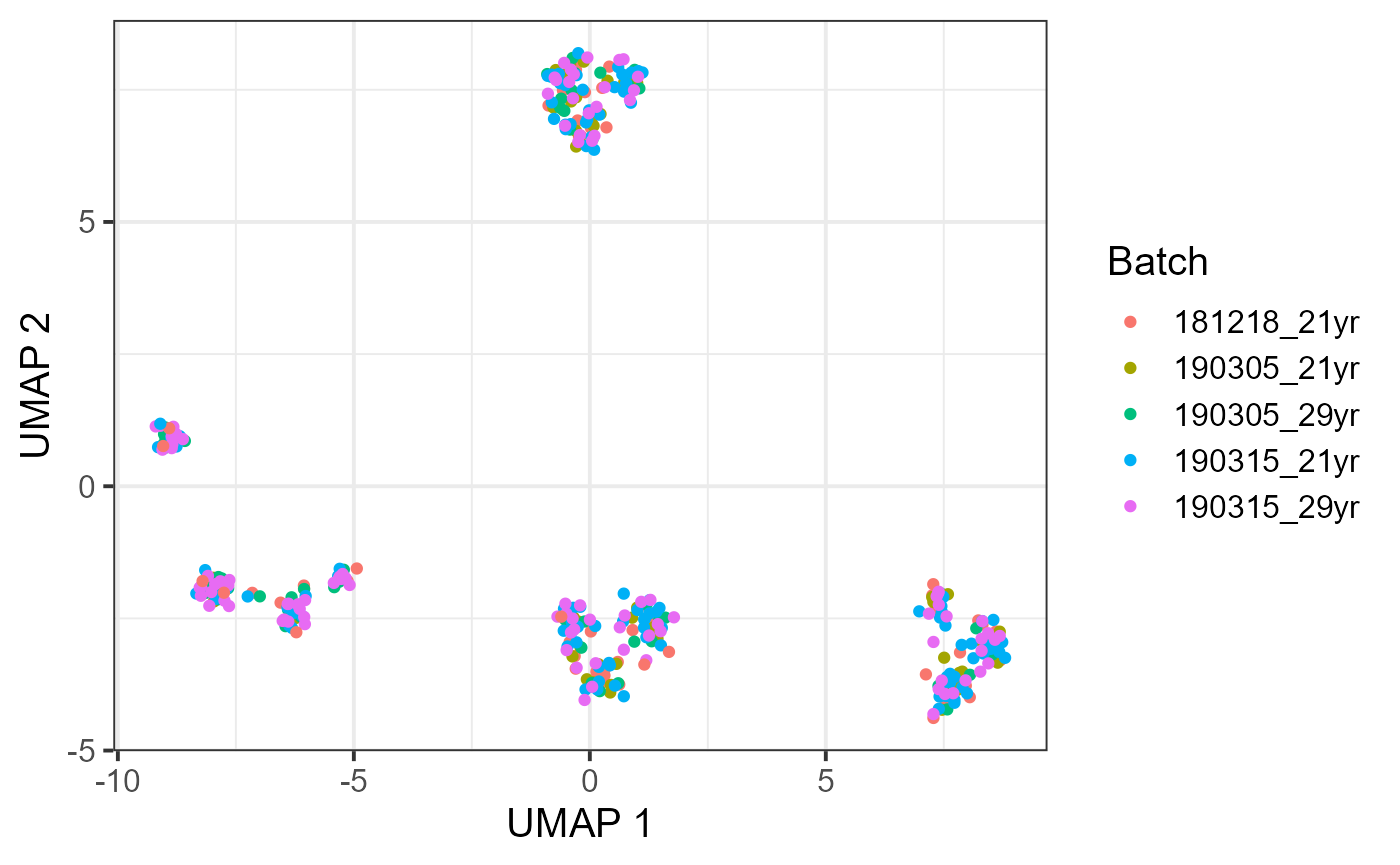
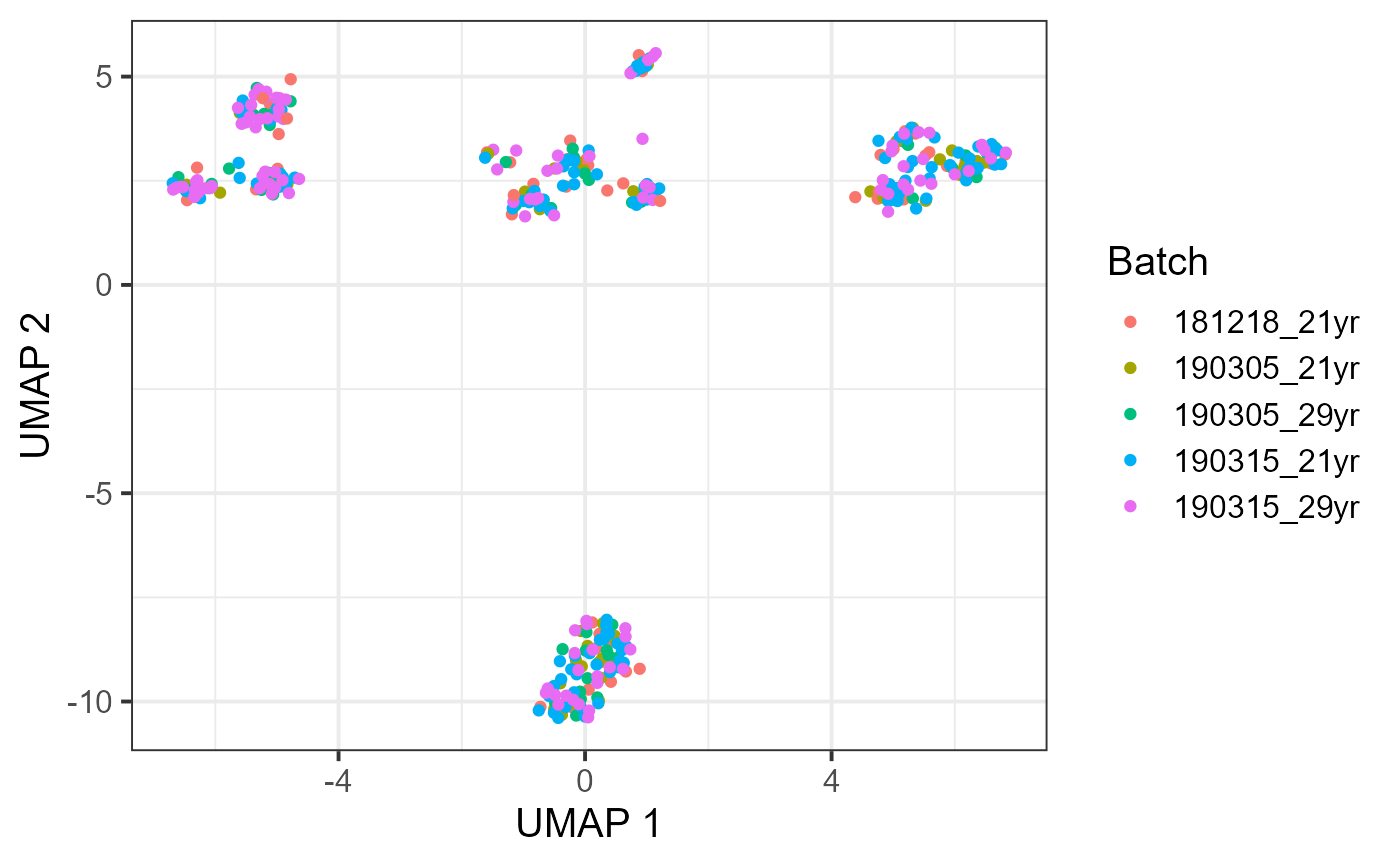
Add files via upload

diff --git a/docs/articles/BandNorm-tutorial.html b/docs/articles/BandNorm-tutorial.html
@@ -117,10 +117,22 @@
 <a href="#format-of-input" class="anchor"></a>Format of input</h2>
 <p>There are two possible ways to input the data:</p>
 <ol style="list-style-type: decimal">
-<li><p>A path containing all cells in the form of [chr1, binA, chr2, binB, count],</p></li>
-<li><p>An R data.frame in the form of [chr1, binA, binB, count, diag, cell_name]. The column names should be c(“chrom”, “binA”, “binB”, “count”, “diag”, “cell”)</p></li>
+<li>A path containing all cells in the form of [chr1, binA, chr2, binB, count], the cell looks like below:</li>
 </ol>
-<div class="sourceCode" id="cb3"><pre class="downlit sourceCode r">
+<pre><code>chr1    0       chr1    1000000 9
+chr1    1000000 chr1    1000000 200
+chr1    0       chr1    2000000 2
+chr1    1000000 chr1    2000000 4
+chr1    2000000 chr1    2000000 220
+chr1    1000000 chr1    3000000 1
+chr1    2000000 chr1    3000000 11
+chr1    3000000 chr1    3000000 197
+chr1    1000000 chr1    4000000 1
+chr1    2000000 chr1    4000000 2</code></pre>
+<ol start="2" style="list-style-type: decimal">
+<li>An R data.frame in the form of [chr1, binA, binB, count, diag, cell_name]. The column names should be c(“chrom”, “binA”, “binB”, “count”, “diag”, “cell”). Below we print the example data.</li>
+</ol>
+<div class="sourceCode" id="cb4"><pre class="downlit sourceCode r">
 <code class="sourceCode R"><span class="kw"><a href="https://rdrr.io/r/base/library.html">library</a></span><span class="op">(</span><span class="va">BandNorm</span><span class="op">)</span>
 <span class="co">#&gt; Loading required package: ggplot2</span>
 <span class="co">#&gt; Warning: package 'ggplot2' was built under R version 4.0.3</span>
@@ -162,7 +174,7 @@
 <span class="co">#&gt; 9   chr1 4e+06 4e+06   112 0e+00 Astro_1</span>
 <span class="co">#&gt; 10  chr1 3e+06 5e+06     1 2e+06 Astro_1</span></code></pre></div>
 <p>For the example dataset, we also have batch information and cell-type information. Note that the cell_name in those external information should be consistent with the hic_df file.</p>
-<div class="sourceCode" id="cb4"><pre class="downlit sourceCode r">
+<div class="sourceCode" id="cb5"><pre class="downlit sourceCode r">
 <code class="sourceCode R"><span class="fu"><a href="https://rdrr.io/r/utils/data.html">data</a></span><span class="op">(</span><span class="va">batch</span><span class="op">)</span>
 <span class="fu"><a href="https://rdrr.io/r/utils/data.html">data</a></span><span class="op">(</span><span class="va">cell_type</span><span class="op">)</span>
 <span class="fu"><a href="https://rdrr.io/r/base/print.html">print</a></span><span class="op">(</span><span class="va">batch</span><span class="op">[</span><span class="fl">1</span><span class="op">:</span><span class="fl">10</span>, <span class="op">]</span><span class="op">)</span>
@@ -193,15 +205,15 @@
 <div id="download-existing-single-cell-hi-c-data" class="section level2">
 <h2 class="hasAnchor">
 <a href="#download-existing-single-cell-hi-c-data" class="anchor"></a>Download existing single-cell Hi-C data</h2>
-<p>You can also use <code>download_schic</code> function to download real data. The available data includes Kim2020, Li2019, Ramani2017, and Lee2019. You can specify one of the cell-types in those cell lines. There are also summary files available for them, and the summary includes batch, cell-type, depth and sparsity information. You can go to <a href="http://pages.stat.wisc.edu/~sshen82/bandnorm/">this website</a> for more information.</p>
-<div class="sourceCode" id="cb5"><pre class="downlit sourceCode r">
+<p>You can also use <code>download_schic</code> function to download real data. The available data includes <a href="https://journals.plos.org/ploscompbiol/article?id=10.1371/journal.pcbi.1008173">Kim2020</a>, <a href="https://www.nature.com/articles/s41592-019-0502-z">Li2019</a>, <a href="https://www.ncbi.nlm.nih.gov/pmc/articles/PMC5330809/">Ramani2017</a>, and <a href="https://www.nature.com/articles/s41592-019-0547-z">Lee2019</a>. You can specify one of the cell-types in those cell lines. There are also summary files available for them, and the summary includes batch, cell-type, depth and sparsity information. You can go to <a href="http://pages.stat.wisc.edu/~sshen82/bandnorm/">this website</a> for more information.</p>
+<div class="sourceCode" id="cb6"><pre class="downlit sourceCode r">
 <code class="sourceCode R"><span class="fu"><a href="../reference/download_schic.html">download_schic</a></span><span class="op">(</span><span class="st">"Li2019"</span>, cell_type <span class="op">=</span> <span class="st">"2i"</span>, cell_path <span class="op">=</span> <span class="fu"><a href="https://rdrr.io/r/base/getwd.html">getwd</a></span><span class="op">(</span><span class="op">)</span>, summary_path <span class="op">=</span> <span class="fu"><a href="https://rdrr.io/r/base/getwd.html">getwd</a></span><span class="op">(</span><span class="op">)</span><span class="op">)</span></code></pre></div>
 </div>
 <div id="use-bandnorm" class="section level2">
 <h2 class="hasAnchor">
 <a href="#use-bandnorm" class="anchor"></a>Use BandNorm</h2>
-<p>After obtaining the hic_df file, you can use the <code>bandnorm</code> function to normalize the data. The result consists of 6 columns: chromosome, binA, binB, diag (which is binB - binA), cell (which is the name of the cell), and BandNorm. You can use the save option to save the normalized file, and if so, you need to give a path for output.</p>
-<div class="sourceCode" id="cb6"><pre class="downlit sourceCode r">
+<p>We provide a demo scHi-C data named hic_df, sampled 400 cells of Astro, ODC, MG, Sst, four cell types and chromosome 1 from <a href="https://www.nature.com/articles/s41592-019-0547-z">Ecker2019</a> for test run. After obtaining the hic_df file, you can use the <code>bandnorm</code> function to normalize the data. The result consists of 6 columns: chromosome, binA, binB, diag (which is binB - binA), cell (which is the name of the cell), and BandNorm. You can use the save option to save the normalized file, and if so, you need to give a path for output.</p>
+<div class="sourceCode" id="cb7"><pre class="downlit sourceCode r">
 <code class="sourceCode R"><span class="va">bandnorm_result</span> <span class="op">=</span> <span class="fu"><a href="../reference/bandnorm.html">bandnorm</a></span><span class="op">(</span>hic_df <span class="op">=</span> <span class="va">hic_df</span>, save <span class="op">=</span> <span class="cn">FALSE</span><span class="op">)</span>
 <span class="va">bandnorm_result</span><span class="op">[</span><span class="fl">1</span><span class="op">:</span><span class="fl">10</span>, <span class="op">]</span>
 <span class="co">#&gt;    chrom  binA  binB  diag    cell   BandNorm</span>
@@ -217,7 +229,7 @@
 <span class="co">#&gt; 10  chr1 3e+06 5e+06 2e+06 Astro_1   8.392744</span>
 <span class="co"># bandnorm_result = bandnorm(hic_df = hic_df, save = TRUE, save_path = getwd())</span></code></pre></div>
 <p>Then, you can use <code>create_embedding</code> function to obtain a PCA embedding for the data. You can choose to use Harmony to remove the batch effect.</p>
-<div class="sourceCode" id="cb7"><pre class="downlit sourceCode r">
+<div class="sourceCode" id="cb8"><pre class="downlit sourceCode r">
 <code class="sourceCode R"><span class="va">embedding</span> <span class="op">=</span> <span class="fu"><a href="../reference/create_embedding.html">create_embedding</a></span><span class="op">(</span>hic_df <span class="op">=</span> <span class="va">bandnorm_result</span>, do_harmony <span class="op">=</span> <span class="cn">TRUE</span>, batch <span class="op">=</span> <span class="va">batch</span><span class="op">)</span>
 <span class="co">#&gt; Harmony 1/10</span>
 <span class="co">#&gt; Harmony 2/10</span>
@@ -225,112 +237,113 @@
 <span class="co">#&gt; Harmony 4/10</span>
 <span class="co">#&gt; Harmony 5/10</span>
 <span class="co">#&gt; Harmony 6/10</span>
-<span class="co">#&gt; Harmony converged after 6 iterations</span>
+<span class="co">#&gt; Harmony 7/10</span>
+<span class="co">#&gt; Harmony converged after 7 iterations</span>
 <span class="va">embedding</span><span class="op">[</span><span class="fl">1</span><span class="op">:</span><span class="fl">10</span>, <span class="op">]</span>
-<span class="co">#&gt;                 PC1       PC2        PC3         PC4        PC5        PC6</span>
-<span class="co">#&gt; Astro_1  -25.045580 28.340756 -21.503128  31.0830161 -31.426508 -21.110937</span>
-<span class="co">#&gt; Astro_2   -8.737207 37.697510  -4.612044   0.4379436  -5.695395  10.971344</span>
-<span class="co">#&gt; Astro_3   -2.872590 10.491469  -0.653415   1.4019305  13.280892 -17.350215</span>
-<span class="co">#&gt; Astro_4   -8.486334 26.923820 -24.821406  11.7428537 -12.637595 -19.125857</span>
-<span class="co">#&gt; Astro_5    5.342918  9.114805 -20.621120   7.1481739 -16.750856 -18.269476</span>
-<span class="co">#&gt; Astro_6  -19.391277 15.884357 -20.903456  -0.3520621  -6.030601   8.151918</span>
-<span class="co">#&gt; Astro_7  -18.804863 32.364749 -34.980637 -22.5272592  -6.538678  -6.092682</span>
-<span class="co">#&gt; Astro_8   -4.322921 40.579979   0.698904   5.8352437  -5.722999  16.086922</span>
-<span class="co">#&gt; Astro_9  -11.262473 10.142704 -17.599125   8.4894510  -3.445408   9.482180</span>
-<span class="co">#&gt; Astro_10 -14.905449  6.289121 -13.784609   4.0025092 -26.566669  -9.470627</span>
-<span class="co">#&gt;                  PC7          PC8       PC9        PC10      PC11       PC12</span>
-<span class="co">#&gt; Astro_1   -0.2947265 -51.90572590 30.759025  -7.6406692 15.107119 -18.046903</span>
-<span class="co">#&gt; Astro_2   -5.1040509  -4.04780072  5.844001  13.8592277 13.048715 -25.353116</span>
-<span class="co">#&gt; Astro_3  -19.6338134  16.91153497 -2.364388   3.4319849 -0.887914  -2.018459</span>
-<span class="co">#&gt; Astro_4   10.1164111   0.38764603  5.282964 -14.0248802  1.319237 -12.598487</span>
-<span class="co">#&gt; Astro_5    5.0991140   5.56836415 33.555164  15.7348945 78.410594 -36.959211</span>
-<span class="co">#&gt; Astro_6  -10.0018656  -4.67029009  2.239397   0.7989765  8.407645 -42.150394</span>
-<span class="co">#&gt; Astro_7   -2.4137538   0.08770806 -2.946273  -8.8777774  3.924052 -17.734656</span>
-<span class="co">#&gt; Astro_8  -19.7133312  11.68369419 -2.701983   0.8079764 24.694397   1.756816</span>
-<span class="co">#&gt; Astro_9   17.7425518  40.02529385 36.018890  11.9022163 27.660853 -70.624349</span>
-<span class="co">#&gt; Astro_10  13.7074277  -4.37337473 33.242883 -17.2349082 13.827523 -28.070612</span>
+<span class="co">#&gt;                  PC1       PC2        PC3         PC4        PC5        PC6</span>
+<span class="co">#&gt; Astro_1    1.0293516 49.473692 -76.618811 -36.8752564 -42.022535 -23.354049</span>
+<span class="co">#&gt; Astro_2   -9.1977209 32.347768  -2.756897   8.3822718  -8.160682   4.438291</span>
+<span class="co">#&gt; Astro_3   -0.5292853 14.812305  -2.973394   1.6324264  11.047545 -10.023949</span>
+<span class="co">#&gt; Astro_4   -6.0115586 37.463300 -29.961596  11.2777084 -13.797429  -6.104187</span>
+<span class="co">#&gt; Astro_5   12.0999009 18.577941 -23.574044  13.2213510 -26.996703 -10.876395</span>
+<span class="co">#&gt; Astro_6  -20.6892354 13.743482 -24.919865  -0.7956708  -3.135400   7.802125</span>
+<span class="co">#&gt; Astro_7  -49.4006359 29.103575 -20.027626   6.8908420   1.295028  -1.965032</span>
+<span class="co">#&gt; Astro_8  -11.7727162 34.881938  -6.166616   8.6403040  -6.384149   4.617832</span>
+<span class="co">#&gt; Astro_9  -11.5708831  8.350641 -22.892308  18.7070499 -15.263220  -5.301028</span>
+<span class="co">#&gt; Astro_10 -16.0734039  4.329660 -18.211048   3.1339731 -23.705511  -9.755443</span>
+<span class="co">#&gt;                 PC7        PC8       PC9        PC10       PC11       PC12</span>
+<span class="co">#&gt; Astro_1    5.463078 -39.908755 37.371895  -7.5543198  38.568930 -33.102037</span>
+<span class="co">#&gt; Astro_2   -3.914980  -3.740787  9.324096  14.9302331  22.664567 -24.724161</span>
+<span class="co">#&gt; Astro_3  -27.728462  22.269925  5.494555  15.0396810  -3.799887  -8.524067</span>
+<span class="co">#&gt; Astro_4   -3.742008   7.242514  5.243161  -1.9170383 -17.179946 -18.222599</span>
+<span class="co">#&gt; Astro_5   -4.774827   7.453127 46.319538  29.1508380  81.142666 -46.266262</span>
+<span class="co">#&gt; Astro_6  -12.451910  -3.223360 -2.009652   1.1047054   6.289144 -43.766538</span>
+<span class="co">#&gt; Astro_7   -7.223646  -1.338891 -7.333724  -6.9135170  -6.937292  -5.093652</span>
+<span class="co">#&gt; Astro_8  -20.610865   6.190320 -1.715928   0.5955311  17.998392   9.602011</span>
+<span class="co">#&gt; Astro_9   18.812482  27.737164 48.252583  11.8094384  41.092434 -67.756942</span>
+<span class="co">#&gt; Astro_10  11.236069  -2.918244 28.993287 -16.9185304  11.773731 -29.898823</span>
 <span class="co">#&gt;                PC13       PC14       PC15        PC16       PC17        PC18</span>
-<span class="co">#&gt; Astro_1   39.081573 -21.026752  14.821431 -21.7094143  52.936198 -42.3640018</span>
-<span class="co">#&gt; Astro_2   -1.217791   4.009529 -14.850985   6.2593446 -18.465407 -12.1946020</span>
-<span class="co">#&gt; Astro_3   18.902403   7.848010  -4.605852   9.7357656  14.458027   0.1811033</span>
-<span class="co">#&gt; Astro_4   -5.404832   8.603679 -17.635767  -0.8533168  -1.495510   0.7848221</span>
-<span class="co">#&gt; Astro_5   22.852669  52.134343  -7.885745  22.0596837  -9.076908  23.8132379</span>
-<span class="co">#&gt; Astro_6   25.422281   1.093848   5.195538 -13.5103136   1.463058 -12.3392181</span>
-<span class="co">#&gt; Astro_7   19.644393  -3.078079  -4.671584   4.6118908  13.020849 -24.4874652</span>
-<span class="co">#&gt; Astro_8   -2.003471 -45.594234  -3.009360 -10.7393834 -11.524850  -3.4683165</span>
-<span class="co">#&gt; Astro_9  -35.140731 -20.765786  19.462011  40.9221054 -21.034488 -41.0497826</span>
-<span class="co">#&gt; Astro_10  15.295301 -22.388777 -11.386924   3.8476055  20.073543 -24.8578602</span>
-<span class="co">#&gt;                 PC19        PC20         PC21       PC22        PC23       PC24</span>
-<span class="co">#&gt; Astro_1   34.6933014  31.4524692 -167.8524090  72.558919  -8.9552739 -26.561646</span>
-<span class="co">#&gt; Astro_2   -5.6493979  -2.8899149    8.9759578 -10.952132 -21.4982901  19.687292</span>
-<span class="co">#&gt; Astro_3   31.5373840  14.4608897   -3.0532662  10.818935 -22.0022965  10.477746</span>
-<span class="co">#&gt; Astro_4   -4.0252417  18.9684257    9.9933101  -6.579484 -15.0517545 -22.770390</span>
-<span class="co">#&gt; Astro_5  106.9153339  20.7039988  108.9241364   5.762381 121.3405809 -93.664069</span>
-<span class="co">#&gt; Astro_6  -16.7954168  -5.4802647    0.5237965  47.991289  -2.6146729   6.919639</span>
-<span class="co">#&gt; Astro_7   -9.6129843   0.9562933   -5.3100874  15.955457 -27.6401805  -2.748349</span>
-<span class="co">#&gt; Astro_8   -1.2169749 -18.9501090  -37.0303805 -24.949317 -24.8467075  28.598523</span>
-<span class="co">#&gt; Astro_9  -99.2474223 -57.5230919   27.8338753 -63.463938  41.0507088  17.472996</span>
-<span class="co">#&gt; Astro_10  -0.9634045 -10.0135254   -4.8206727 -21.172528   0.8004012  -1.654024</span>
-<span class="co">#&gt;                 PC25        PC26       PC27        PC28       PC29        PC30</span>
-<span class="co">#&gt; Astro_1    6.8768410  -59.295541  26.010953 -157.487927  16.296475 -37.7158129</span>
-<span class="co">#&gt; Astro_2  -12.1328755   19.923863   1.901399   -3.853591  -1.035433  15.3434511</span>
-<span class="co">#&gt; Astro_3    2.8432219   28.589053 -27.684126   10.773470  38.810095   6.4565183</span>
-<span class="co">#&gt; Astro_4   -0.6701505    7.781491  26.402553   19.936786   4.054353 -13.3257747</span>
-<span class="co">#&gt; Astro_5   40.8194019   72.115432 -56.297311   76.643487 -54.808834  16.4037795</span>
-<span class="co">#&gt; Astro_6    5.9015744   -0.762178  34.369654   -8.108522  23.081005   2.1678795</span>
-<span class="co">#&gt; Astro_7   30.8469981    5.531170  21.581536   10.658423  23.298914 -27.9488326</span>
-<span class="co">#&gt; Astro_8    5.9810223   -2.187160 -30.817536   24.631338  13.751950 -41.8583327</span>
-<span class="co">#&gt; Astro_9    6.7695064 -161.947836  -3.653350   78.381877 -12.350198  -5.3134459</span>
-<span class="co">#&gt; Astro_10 -41.0466445   -2.103885  21.134516    5.042714  12.085478  -0.2448157</span>
-<span class="co">#&gt;                PC31       PC32       PC33       PC34       PC35        PC36</span>
-<span class="co">#&gt; Astro_1   11.970667 -63.559597  18.169098 -15.482446  64.688632 -66.7368893</span>
-<span class="co">#&gt; Astro_2  -10.344685   9.976024  11.012815  19.846689 -11.707848  10.0693795</span>
-<span class="co">#&gt; Astro_3    9.382212 -14.252097 -75.873777   1.194728  -2.244843   3.2366234</span>
-<span class="co">#&gt; Astro_4  -20.918186  11.552477 -15.547393  10.347739   9.881804   9.2574625</span>
-<span class="co">#&gt; Astro_5  -21.615833   9.016247   2.138338 -43.323550  60.805585  31.7411465</span>
-<span class="co">#&gt; Astro_6   -7.685334  41.778464  10.400796  -7.130914  11.735749   0.9870975</span>
-<span class="co">#&gt; Astro_7  -32.404348   3.261528 -36.815543   1.792954 -49.817703   5.4003078</span>
-<span class="co">#&gt; Astro_8   11.399584  15.943314  45.199268 -21.000141  57.262780  35.2249375</span>
-<span class="co">#&gt; Astro_9   54.719385  -7.913321   5.930568  -6.252110 -67.633310  -9.8178876</span>
-<span class="co">#&gt; Astro_10 -43.971693  39.936488 -32.816472  20.956770   2.921438   4.5467999</span>
-<span class="co">#&gt;                PC37       PC38       PC39       PC40       PC41         PC42</span>
-<span class="co">#&gt; Astro_1   17.121660  -22.06407  56.014317  -6.829978  -5.879485  -2.78586743</span>
-<span class="co">#&gt; Astro_2    8.479422   18.00015  10.545271   1.133822 -11.838896  22.56823169</span>
-<span class="co">#&gt; Astro_3  -16.280164   55.57161  -1.264806 -26.770147   9.262115  -0.05562943</span>
-<span class="co">#&gt; Astro_4  -25.759421  -22.85331  42.666122   4.323750 -38.663604 -13.21005794</span>
-<span class="co">#&gt; Astro_5   -5.069230  -41.51107  25.057987 -40.863156  73.326294   3.97064659</span>
-<span class="co">#&gt; Astro_6  -13.496505   37.95202  49.567769  35.620957  -3.719731  30.58937609</span>
-<span class="co">#&gt; Astro_7  -19.115292   31.01325 -38.308703   6.679716  30.601737 -41.90069178</span>
-<span class="co">#&gt; Astro_8   35.249248 -109.56727  14.141909  -9.596247   3.286258 -18.91166397</span>
-<span class="co">#&gt; Astro_9   10.703149   63.52662 -67.555765  28.710768 -12.730683  14.26746600</span>
-<span class="co">#&gt; Astro_10  14.703183  -24.28823 -44.505894 -69.213677 -26.600500  21.82600738</span>
-<span class="co">#&gt;                 PC43       PC44      PC45       PC46       PC47       PC48</span>
-<span class="co">#&gt; Astro_1   -3.6705886 -12.447164  25.85473   7.023553 -20.379088  16.911540</span>
-<span class="co">#&gt; Astro_2   39.2082614   0.888037 -14.33590 -26.249995  -2.745142 -13.991930</span>
-<span class="co">#&gt; Astro_3    0.7965989  37.654061  33.80890  13.931868  57.096572  82.281084</span>
-<span class="co">#&gt; Astro_4   26.3206386   1.346879  14.78662  49.980854  43.128491   0.649444</span>
-<span class="co">#&gt; Astro_5  -15.4666907   4.136852 -19.85939 -10.868543 -45.637027  -6.010438</span>
-<span class="co">#&gt; Astro_6  -30.8413260  10.027390 -52.94187   6.376088 -22.587819  13.246964</span>
-<span class="co">#&gt; Astro_7   -5.9964957 -14.832215  17.45040 -67.305214  -6.512270  15.272147</span>
-<span class="co">#&gt; Astro_8   40.2834106  33.380663 -54.57994  24.877108  26.052763 -38.519596</span>
-<span class="co">#&gt; Astro_9  -16.8408403 -12.335510  24.05970  27.639502  39.348632 -57.430595</span>
-<span class="co">#&gt; Astro_10  34.8866031  18.553180  13.05609  -6.245204 -29.123775 -19.809488</span>
-<span class="co">#&gt;                PC49       PC50</span>
-<span class="co">#&gt; Astro_1   29.374831 -18.053001</span>
-<span class="co">#&gt; Astro_2  -22.660510  22.706532</span>
-<span class="co">#&gt; Astro_3   -9.540926   3.822078</span>
-<span class="co">#&gt; Astro_4   37.851263  36.229757</span>
-<span class="co">#&gt; Astro_5  -16.678436   4.947284</span>
-<span class="co">#&gt; Astro_6   -9.242431 -10.364903</span>
-<span class="co">#&gt; Astro_7    8.848710  34.882525</span>
-<span class="co">#&gt; Astro_8   16.435688  21.067974</span>
-<span class="co">#&gt; Astro_9   38.004733  -8.371379</span>
-<span class="co">#&gt; Astro_10 -59.030310 -81.518872</span></code></pre></div>
+<span class="co">#&gt; Astro_1   36.450373 -16.727650  26.892309  -8.1290435  51.809195 -44.4848454</span>
+<span class="co">#&gt; Astro_2   -1.020508   7.944943  -3.754481  10.9843335 -19.575093 -14.7476760</span>
+<span class="co">#&gt; Astro_3   28.377543 -24.561802 -11.678825 -13.8629673  32.477351  -7.4452104</span>
+<span class="co">#&gt; Astro_4    7.638106 -28.233967 -35.049459 -36.6979262  23.466988  -0.3285857</span>
+<span class="co">#&gt; Astro_5   38.215933  16.699635 -10.407043  -4.8891076  13.237492  11.9011582</span>
+<span class="co">#&gt; Astro_6   27.994952   1.503671   9.652660 -16.8868315   1.422629  -9.8344336</span>
+<span class="co">#&gt; Astro_7   19.795840  -9.758172  -5.624113   4.4242897   7.287895 -28.1444404</span>
+<span class="co">#&gt; Astro_8    3.389298 -26.686585  -8.361308 -22.2581458   9.467595   0.5166268</span>
+<span class="co">#&gt; Astro_9  -19.296436  -9.323479  32.195526  45.5151545  -6.140340 -43.9776395</span>
+<span class="co">#&gt; Astro_10  17.931475 -22.066403  -6.880684   0.3976595  20.064442 -22.3763206</span>
+<span class="co">#&gt;                PC19        PC20         PC21       PC22        PC23        PC24</span>
+<span class="co">#&gt; Astro_1   36.600347  26.8185878 -147.0620917  62.975980  13.1925808  -43.660426</span>
+<span class="co">#&gt; Astro_2    8.171562  -1.4955112    9.0129350 -15.638932  -0.1001894    2.150610</span>
+<span class="co">#&gt; Astro_3   20.396139   2.5873515  -14.4104323   5.577496 -15.7555393    4.359450</span>
+<span class="co">#&gt; Astro_4  -27.350005  -0.3935630   -1.0886763 -13.563974 -35.2976197   -2.517836</span>
+<span class="co">#&gt; Astro_5  100.353701   4.8132207   90.9908739   1.436840 137.9149138 -108.072497</span>
+<span class="co">#&gt; Astro_6  -18.436873  -6.1207879    4.8147881  43.919609  -7.9468088   11.584170</span>
+<span class="co">#&gt; Astro_7   -2.912850   4.4504741   -4.2811323  10.185427 -16.8892275   -2.059864</span>
+<span class="co">#&gt; Astro_8   20.856135   0.3562213  -47.2415088 -10.193786 -28.5701192   53.105555</span>
+<span class="co">#&gt; Astro_9  -61.168698 -34.7447627   15.1963450 -43.678426  68.1156788    6.403451</span>
+<span class="co">#&gt; Astro_10  -2.811194 -10.6610313   -0.5190964 -25.226746  -4.7663421    3.187728</span>
+<span class="co">#&gt;                PC25         PC26       PC27          PC28      PC29       PC30</span>
+<span class="co">#&gt; Astro_1   16.878322  -73.4069402  11.565298 -132.12895549  15.99669 -39.139799</span>
+<span class="co">#&gt; Astro_2   -1.671599    6.8910566 -11.619943    0.07659627 -10.85001  13.462678</span>
+<span class="co">#&gt; Astro_3    5.002134   11.1562218 -18.838594    3.52801178  43.71871   3.217179</span>
+<span class="co">#&gt; Astro_4   -2.993162    5.3338359  35.343259    7.07005100  16.53636 -13.925318</span>
+<span class="co">#&gt; Astro_5   47.480065   41.6587233 -52.832806   69.27468765 -53.44459  11.938828</span>
+<span class="co">#&gt; Astro_6    6.021035    0.7363682  24.592123  -10.46160398  24.57937  -1.887627</span>
+<span class="co">#&gt; Astro_7   37.133145   -1.3407220  22.447725    7.72297864  32.12957  -3.287794</span>
+<span class="co">#&gt; Astro_8    4.822512   39.3224695 -32.338640    8.05203637  12.73663 -24.432273</span>
+<span class="co">#&gt; Astro_9    9.823496 -147.7889985  -7.790911   65.90312086 -20.40180   3.733545</span>
+<span class="co">#&gt; Astro_10 -41.053756   -0.6003121  11.323381    2.61211428  13.78707  -4.367368</span>
+<span class="co">#&gt;                PC31       PC32          PC33       PC34       PC35       PC36</span>
+<span class="co">#&gt; Astro_1   15.170835 -61.384365   9.340159071 -23.285969  59.585590 -59.685187</span>
+<span class="co">#&gt; Astro_2    2.619909 -13.081421   8.394563749   8.427431 -11.150123  -4.734391</span>
+<span class="co">#&gt; Astro_3    9.782181 -17.532229 -71.892748279   5.310214  -5.183289  -6.431404</span>
+<span class="co">#&gt; Astro_4  -26.545923  17.482512  -0.008463749  29.012026  14.868218  15.483310</span>
+<span class="co">#&gt; Astro_5  -16.089578  -4.580247   6.651398091 -42.639237  60.222377  15.201723</span>
+<span class="co">#&gt; Astro_6   -2.602373  39.545451  14.782254702  -4.059741  21.021221  10.925223</span>
+<span class="co">#&gt; Astro_7  -21.034836  -1.929582 -31.663202878   5.625456 -37.651852  -8.797673</span>
+<span class="co">#&gt; Astro_8    2.112254   8.790524  41.240476002 -15.072993  64.533421  42.162179</span>
+<span class="co">#&gt; Astro_9   54.508165 -24.035543  -6.492675989 -13.395225 -61.438521 -13.621271</span>
+<span class="co">#&gt; Astro_10 -38.982159  38.013844 -28.381169515  24.180290  12.499797  14.878211</span>
+<span class="co">#&gt;                PC37       PC38       PC39       PC40       PC41        PC42</span>
+<span class="co">#&gt; Astro_1   13.247817  -16.85256  43.202536  -7.055817  -1.683316  -0.2070641</span>
+<span class="co">#&gt; Astro_2    5.001783   18.77908   5.697223   5.230481   3.327796  17.1015400</span>
+<span class="co">#&gt; Astro_3  -10.349191   64.58069  -9.286422 -23.030223   6.024418   9.9562026</span>
+<span class="co">#&gt; Astro_4  -20.831042  -23.26558  31.801104  10.089743 -53.422976 -11.1093791</span>
+<span class="co">#&gt; Astro_5    0.224684  -26.96889  14.546407 -37.383181  71.694498  20.1771640</span>
+<span class="co">#&gt; Astro_6  -17.038125   28.90068  40.873825  44.149871   2.019554  19.0590047</span>
+<span class="co">#&gt; Astro_7  -22.703862   47.85184 -22.433550   1.141341  41.644556 -52.8785130</span>
+<span class="co">#&gt; Astro_8   24.853904 -112.21119  17.176909 -16.520592  -1.972054 -26.5114899</span>
+<span class="co">#&gt; Astro_9   -1.320368   80.83622 -67.838042  25.109245  -9.967477  23.8448185</span>
+<span class="co">#&gt; Astro_10  11.156463  -33.49567 -53.305006 -60.669860 -21.026879  10.2927822</span>
+<span class="co">#&gt;                 PC43        PC44       PC45       PC46       PC47       PC48</span>
+<span class="co">#&gt; Astro_1   -6.5215128 -15.1906129  25.597990  -2.942280 -15.483955  18.799563</span>
+<span class="co">#&gt; Astro_2   31.4258317  -2.1848247  -6.086869 -24.308698   8.063508  -4.890081</span>
+<span class="co">#&gt; Astro_3    0.8390653  33.7975958  41.669168  10.413949  54.169226  75.182113</span>
+<span class="co">#&gt; Astro_4   28.4241608  -2.4405875  18.469685  53.508480  37.046838  -9.282998</span>
+<span class="co">#&gt; Astro_5  -16.0046799  -0.5111173  -6.981688 -13.377257 -49.037175 -14.344441</span>
+<span class="co">#&gt; Astro_6  -44.5623456   9.1873870 -47.659106  15.241128 -28.906248  22.249599</span>
+<span class="co">#&gt; Astro_7  -13.6391401  -6.1774895   7.447094 -54.666682 -11.993722   7.998112</span>
+<span class="co">#&gt; Astro_8   46.9426615  27.3817462 -53.221615  23.026799  21.412688 -25.393771</span>
+<span class="co">#&gt; Astro_9  -25.8759005 -13.3802244  36.020301  17.674731  20.597259 -40.797061</span>
+<span class="co">#&gt; Astro_10  21.0630570  17.7644054  18.374701   2.760565 -35.820752 -10.865968</span>
+<span class="co">#&gt;                 PC49       PC50</span>
+<span class="co">#&gt; Astro_1   38.5229171 -19.136755</span>
+<span class="co">#&gt; Astro_2   -4.1254963  28.762265</span>
+<span class="co">#&gt; Astro_3   -4.3219212  -2.166093</span>
+<span class="co">#&gt; Astro_4   35.3323296  30.507097</span>
+<span class="co">#&gt; Astro_5   -5.5908174  -4.588561</span>
+<span class="co">#&gt; Astro_6    0.1494455 -11.449717</span>
+<span class="co">#&gt; Astro_7  -15.5481144  38.296103</span>
+<span class="co">#&gt; Astro_8    5.4483902  31.735607</span>
+<span class="co">#&gt; Astro_9   35.4435382 -12.440492</span>
+<span class="co">#&gt; Astro_10 -49.6520784 -82.831661</span></code></pre></div>
 <p>Finally, using the embedding, you can use UMAP or tSNE to get a projection of all the cells on the 2D plane. If you have the cell-type information or batch information, it is possible to color them on the plot.</p>
-<div class="sourceCode" id="cb8"><pre class="downlit sourceCode r">
+<div class="sourceCode" id="cb9"><pre class="downlit sourceCode r">
 <code class="sourceCode R"><span class="fu"><a href="../reference/plot_embedding.html">plot_embedding</a></span><span class="op">(</span><span class="va">embedding</span>, <span class="st">"UMAP"</span>, cell_info <span class="op">=</span> <span class="va">cell_type</span>, label <span class="op">=</span> <span class="st">"Cell Type"</span><span class="op">)</span></code></pre></div>
 <p><img src="BandNorm-tutorial_files/figure-html/plot_embedding-1.png" width="700"></p>
-<div class="sourceCode" id="cb9"><pre class="downlit sourceCode r">
+<div class="sourceCode" id="cb10"><pre class="downlit sourceCode r">
 <code class="sourceCode R"><span class="fu"><a href="../reference/plot_embedding.html">plot_embedding</a></span><span class="op">(</span><span class="va">embedding</span>, <span class="st">"UMAP"</span>, cell_info <span class="op">=</span> <span class="va">batch</span>, label <span class="op">=</span> <span class="st">"Batch"</span><span class="op">)</span></code></pre></div>
 <p><img src="BandNorm-tutorial_files/figure-html/plot_embedding-2.png" width="700"></p>
 </div>

diff --git a/docs/reference/download_schic.html b/docs/reference/download_schic.html
@@ -40,7 +40,7 @@
 
 
 <meta property="og:title" content="Download existing single-cell raw data — download_schic" />
-<meta property="og:description" content="This function allows you to calculate the BandNorm normalization." />
+<meta property="og:description" content="This function allows you to download the currently existing single cell Hi-C data. The data is 1mb resolution, and there are basic information for each of the cell, such as cell type, batch, etc." />
 
 
 
@@ -131,7 +131,7 @@
     </div>
 
     <div class="ref-description">
-    <p>This function allows you to calculate the BandNorm normalization.</p>
+    <p>This function allows you to download the currently existing single cell Hi-C data. The data is 1mb resolution, and there are basic information for each of the cell, such as cell type, batch, etc.</p>
     </div>
 
     <pre class="usage"><span class='fu'>download_schic</span><span class='op'>(</span><span class='va'>cell_line</span>, cell_type <span class='op'>=</span> <span class='cn'>NULL</span>, <span class='va'>cell_path</span>, summary_path <span class='op'>=</span> <span class='cn'>NULL</span><span class='op'>)</span></pre>
@@ -151,12 +151,16 @@
       <th>cell_path</th>
       <td><p>Indicate the output path for raw data.</p></td>
     </tr>
+    <tr>
+      <th>summary_path</th>
+      <td><p>Indicate the output path for summary data containing information of batch, cell type, depth and sparsity. Default is NULL.</p></td>
+    </tr>
     </table>
 
 
     <h2 class="hasAnchor" id="examples"><a class="anchor" href="#examples"></a>Examples</h2>
     <pre class="examples"><div class='input'><span class='fu'>download_schic</span><span class='op'>(</span><span class='st'>"Li2019"</span>, cell_path <span class='op'>=</span> <span class='fu'><a href='https://rdrr.io/r/base/getwd.html'>getwd</a></span><span class='op'>(</span><span class='op'>)</span><span class='op'>)</span>
-</div><div class='output co'>#&gt; [1] TRUE</div></pre>
+</div><div class='output co'>#&gt; <span class='error'>Error in dir.exists(summary_path): invalid filename argument</span></div></pre>
   </div>
   <div class="col-md-3 hidden-xs hidden-sm" id="pkgdown-sidebar">
     <nav id="toc" data-toggle="toc" class="sticky-top">

diff --git a/README.md b/README.md
@@ -8,7 +8,7 @@ The advent of single-cell sequencing technologies in profiling 3D genome organiz
 
 To explicitly capture chromatin conformation features and distinguish cells based on their 3D genome organizations, we develop a simple and fast band normalization approach, `BandNorm`, as well as a deep generative modeling framework, [3DVI](https://github.com/yezhengSTAT/3DVI), for more structured modeling of scHi-C data. `BandNorm` first removes genomic distance bias within a cell, and sequencing depth normalizes between cells. Consequently, `BandNorm` adds back a common band-dependent contact decay profile for the contact matrices across cells. The former step is achieved by dividing the interaction frequencies of each band within a cell with the cell’s band mean. The latter step is implemented by multiplying each scaled band by the average band mean across cells.
 
-<img src="https://github.com/sshen82/BandNorm/blob/main/figures/bandnorm_intro.png" alt="BandNorm" width="700px">
+<img src="../figures/bandnorm_intro.png" alt="BandNorm" width="700px">
 
 There are four functions, `download_schic`, `bandnorm`, `create_embedding`, and `plot_embedding`.
 `download_schic` downloads one of the currently available single-cell Hi-C data cleaned by us,
